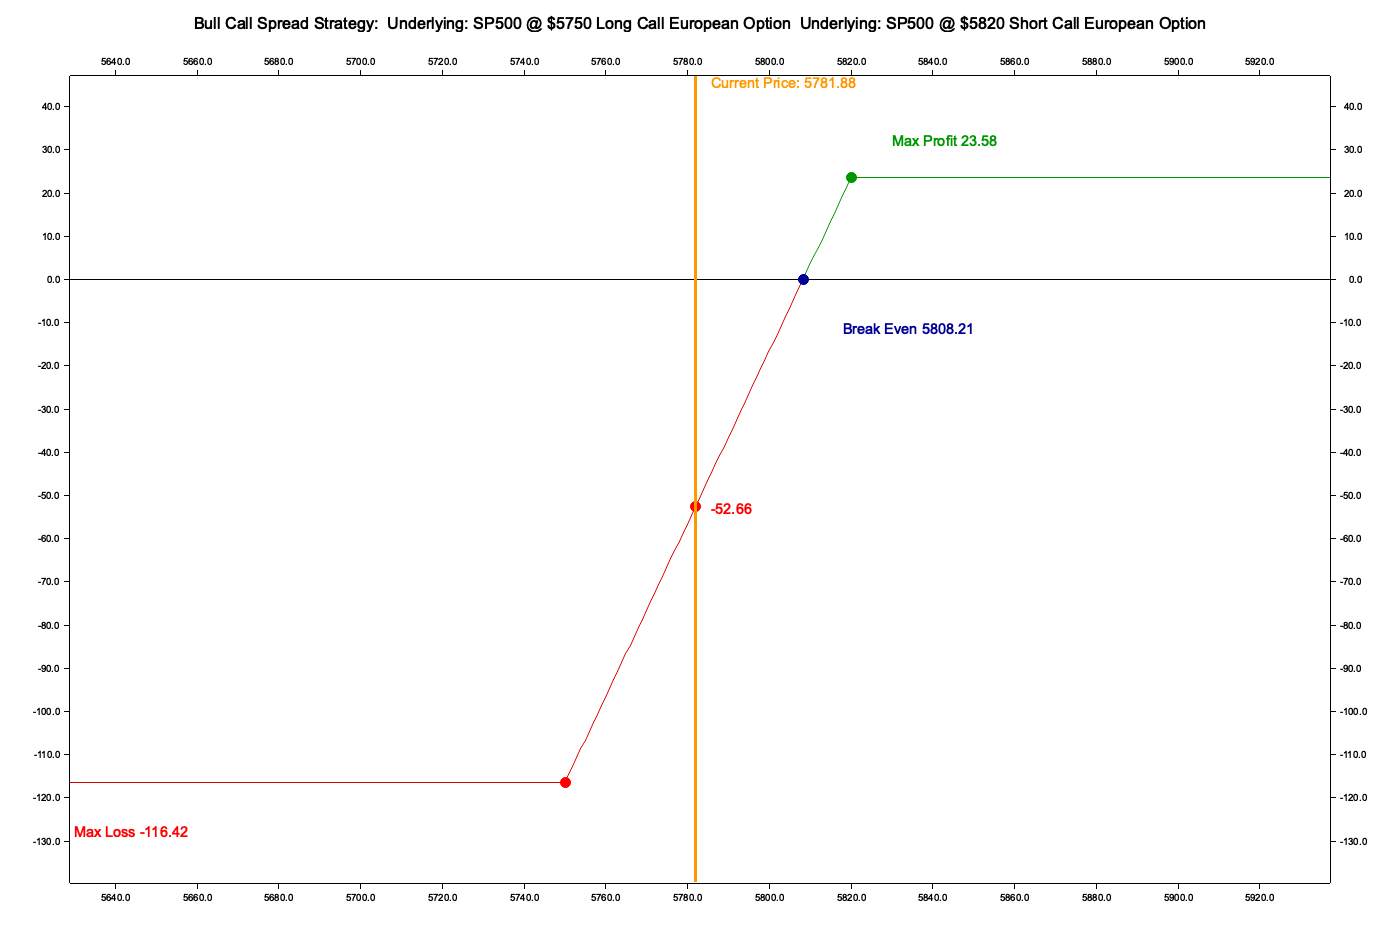
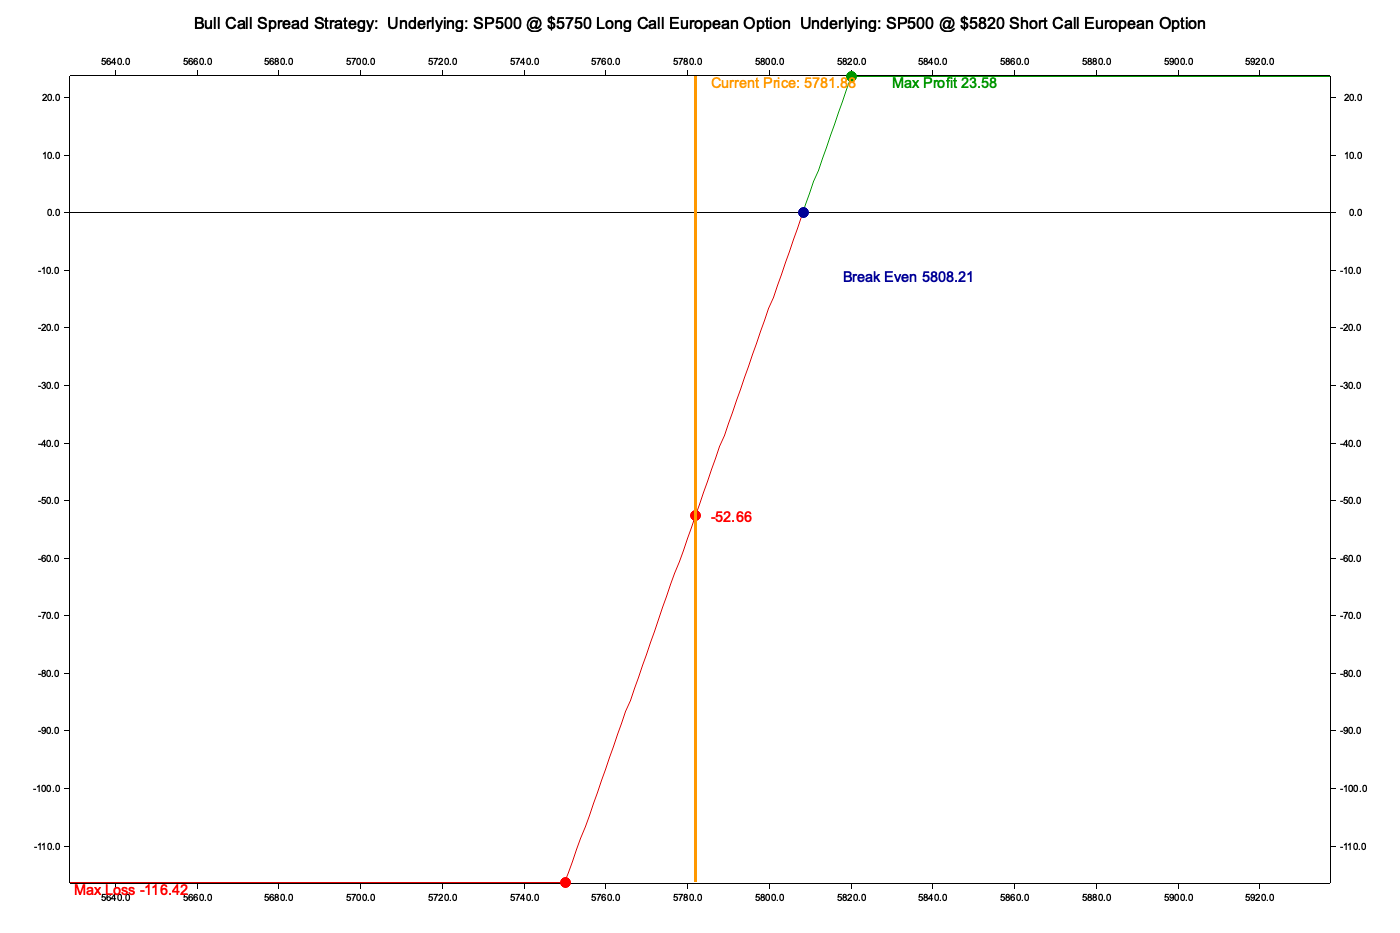
Fix formatting issues and refactor margin handling logic.
Removed unnecessary whitespace and standardized formatting across the codebase for improved readability. Replaced `unwrap_or_else` with `unwrap_or` for margin default value to simplify logic. Rearranged imports in `random_walk_vov.rs` for better organization.

diff --git a/src/visualization/utils.rs b/src/visualization/utils.rs
@@ -118,8 +118,7 @@ pub trait Graph: Profit {
         backend: GraphBackend,
         title_size: u32,
     ) -> Result<(), Box<dyn Error>> {
-        
-        if x_axis_data.is_empty()  {
+        if x_axis_data.is_empty() {
             return Err("No valid values to plot".into());
         }
 
@@ -127,7 +126,7 @@ pub trait Graph: Profit {
         if y_axis_data.is_empty() {
             return Err("No valid values to plot".into());
         }
-        
+
         let (max_x_value, min_x_value, max_y_value, min_y_value) =
             calculate_axis_range(x_axis_data, &y_axis_data, None);
 
@@ -231,8 +230,8 @@ pub(crate) fn calculate_axis_range(
     if min_y_temp.is_infinite() || max_y_temp.is_infinite() {
         return (max_x_value, min_x_value, min_y_temp, max_y_temp);
     }
-    
-    let margin_value = margin.unwrap_or_else(|| 1.0);
+
+    let margin_value = margin.unwrap_or(1.0);
 
     let adjusted_max_profit = (max_y_temp * margin_value - max_y_temp).abs();
     let adjusted_min_profit = (min_y_temp * margin_value - min_y_temp).abs();
@@ -435,7 +434,7 @@ mod tests_calculate_axis_range {
         let x_data = vec![pos!(1.0)];
         let y_data = vec![0.0];
 
-        let (max_x, min_x, max_y, min_y) = calculate_axis_range(&x_data, &y_data,Some(1.2));
+        let (max_x, min_x, max_y, min_y) = calculate_axis_range(&x_data, &y_data, Some(1.2));
 
         assert_eq!(max_x, pos!(1.0));
         assert_eq!(min_x, pos!(1.0));
@@ -449,7 +448,7 @@ mod tests_calculate_axis_range {
         let x_data = vec![Positive::ZERO, Positive::ZERO, Positive::ZERO];
         let y_data = vec![0.0, 0.0, 0.0];
 
-        let (max_x, min_x, max_y, min_y) = calculate_axis_range(&x_data, &y_data,Some(1.2));
+        let (max_x, min_x, max_y, min_y) = calculate_axis_range(&x_data, &y_data, Some(1.2));
 
         assert_eq!(max_x, Positive::ZERO);
         assert_eq!(min_x, Positive::ZERO);
@@ -463,7 +462,7 @@ mod tests_calculate_axis_range {
         let x_data = vec![pos!(1e6), pos!(2e6), pos!(3e6)];
         let y_data = vec![1e9, 2e9, 3e9];
 
-        let (max_x, min_x, max_y, min_y) = calculate_axis_range(&x_data, &y_data,Some(1.2));
+        let (max_x, min_x, max_y, min_y) = calculate_axis_range(&x_data, &y_data, Some(1.2));
 
         assert_eq!(max_x, 3e6);
         assert_eq!(min_x, 1e6);
@@ -601,7 +600,7 @@ mod tests {
     fn test_calculate_axis_range_empty() {
         let x_data: Vec<Positive> = vec![];
         let y_data: Vec<f64> = vec![];
-        let (max_x, min_x, max_y, min_y) = calculate_axis_range(&x_data, &y_data,Some(1.2));
+        let (max_x, min_x, max_y, min_y) = calculate_axis_range(&x_data, &y_data, Some(1.2));
         assert_eq!(min_x, Positive::ZERO);
         assert_eq!(max_x, Positive::INFINITY);
         assert_eq!(min_y, f64::NEG_INFINITY);
@@ -675,7 +674,10 @@ mod tests_extended {
         );
 
         assert!(result.is_err());
-        assert!(result.unwrap_err().to_string().contains("No valid values to plot"));
+        assert!(result
+            .unwrap_err()
+            .to_string()
+            .contains("No valid values to plot"));
         Ok(())
     }
 

diff --git a/examples/examples_simulation/src/bin/random_walk_vov.rs b/examples/examples_simulation/src/bin/random_walk_vov.rs
@@ -3,13 +3,13 @@
    Email: jb@taunais.com
    Date: 22/10/24
 ******************************************************************************/
-use rust_decimal::Decimal;
-use tracing::info;
 use optionstratlib::simulation::walk::{RandomWalkGraph, Walkable};
 use optionstratlib::utils::setup_logger;
 use optionstratlib::utils::time::TimeFrame;
 use optionstratlib::visualization::utils::{Graph, GraphBackend};
 use optionstratlib::{pos, spos};
+use rust_decimal::Decimal;
+use tracing::info;
 
 fn main() -> Result<(), Box<dyn std::error::Error>> {
     setup_logger();
@@ -49,7 +49,7 @@ fn main() -> Result<(), Box<dyn std::error::Error>> {
         },
         20,
     );
-    
+
     for (i, price_params) in random_walk.enumerate() {
         info!("Step {}: Params: {}", i, price_params,);
     }
